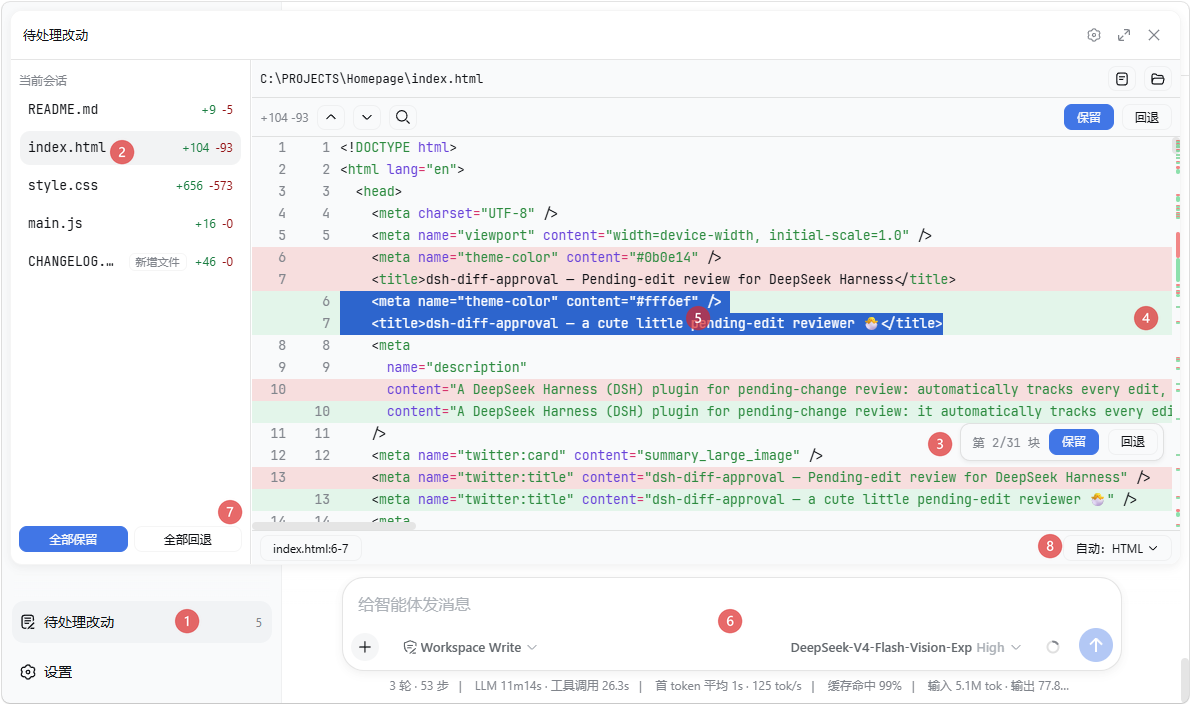
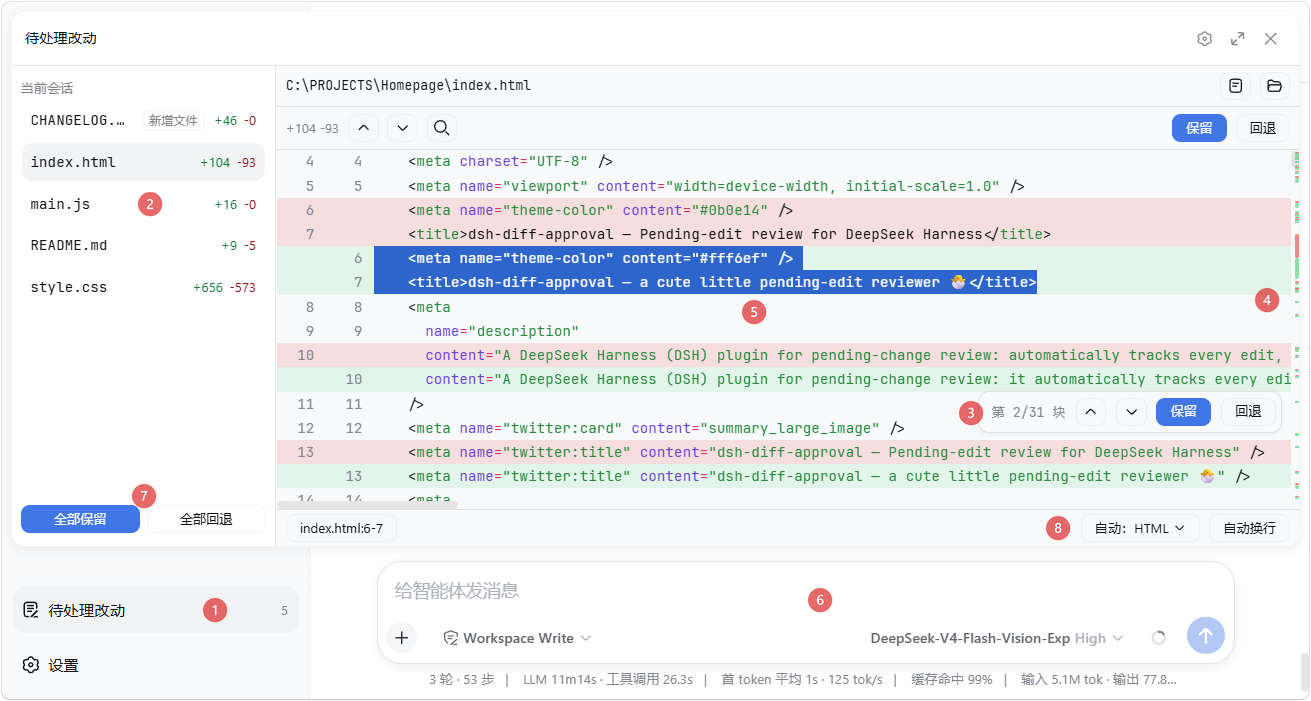
docs: refresh panel screenshots and align numbered markers with new features
Regenerate the annotated panel screenshots at 1311x701 (precise marker positions detected from the marked source), and update the README marker references: ⑦ now points at the bulk Keep all/Revert all footer, and add brief notes for per-language auto-wrap and the diff tab width setting.

diff --git a/README.md b/README.md
@@ -15,14 +15,15 @@ The numbered markers (① – ⑧) in the screenshot point to the matching detai
 
 - **Diff view**: syntax-highlighted whole-file diff ⑤ with +/− counts, an overview ruler ④ on the scrollbar showing where changes sit, and an in-file search (`Ctrl+F`). Rows are virtualized, so huge files stay smooth.
 - **Block navigation & decisions**: jump between change blocks with `Ctrl+↑/↓` (or the previous/next buttons) — the focused block flashes. Hover a block to **Keep** or **Revert** just that block from a small actions frame ③ that also shows its position (e.g. "2/5").
-- **Per-file and bulk decisions**: the files in the file list ② can be kept / reverted one at a time, or **Keep all** / **Revert all** from its footer.
+- **Per-file and bulk decisions**: the files in the file list ② can be kept / reverted one at a time, or **Keep all** / **Revert all** from its footer ⑦.
 - **Undo / Redo**: every keep, revert, and import is undoable with `Ctrl+Z` / `Ctrl+Y` (active while the panel is open; text inputs keep their own editing).
-- **Line references**: select text in the diff — the status bar shows its `file:start-end` reference ⑦; click it (or press `Ctrl+L`) to copy, and with the setting on it auto-pastes into the composer ⑥ and focuses it.
+- **Line references**: select text in the diff — the status bar shows its `file:start-end` reference; click it (or press `Ctrl+L`) to copy, and with the setting on it auto-pastes into the composer ⑥ and focuses it.
 - **Highlight language**: auto-detected from the file extension, or overridden from a dropdown ⑧.
+- **Auto-wrap**: a "Wrap lines" toggle beside the language selector ⑧ wraps long lines for that language (CJK breaks between characters, Latin words stay whole), remembered per language.
 - **External changes**: files already in the pending list are monitored — if one is later modified outside the reviewed edits (another tool, an editor), the panel adopts the new content and flags the divergence.
 - **Open / Reveal**: while reviewing a file's diff, open it in its default app or reveal it in the system file manager with one click.
 - **Import workspace changes**: when the list is empty, click the button to import the workspace's local changes from **Git / SVN / Perforce** — modified, deleted, and (opt-in) untracked files. The VCS root is found by walking up from the workspace, so a workspace inside a subdirectory works too.
-- **Settings**: a "Diff Approval" section in DeepSeek Harness settings with the preferences for auto-paste on copy and whether untracked files are included when importing.
+- **Settings**: a "Diff Approval" section in DeepSeek Harness settings with the preferences for auto-paste on copy, whether untracked files are included when importing, and the diff's tab width (2 / 4 / 8 spaces).
 - **Persistence**: pending state is stored per workspace at `<dshHome>/diff-approval/workspaces/<workspaceId>.json` and survives restarts — unhandled changes are still there when you come back, even in a fresh session.
 
 ## 📦 Install

diff --git a/README.zh.md b/README.zh.md
@@ -15,14 +15,15 @@
 
 - **差异视图**：语法高亮整文件差异 ⑤ 与 +/− 统计，滚动条上有概览标尺 ④ 标示改动位置，支持文件内搜索（`Ctrl+F`）。列表按视口虚拟化渲染，大文件也能保持流畅。
 - **差异块导航与操作**：用 `Ctrl+↑/↓`（或上一处 / 下一处按钮）在差异块间跳转，当前块会高亮闪烁。悬停某一块可从小操作框 ③ 单独**保留 / 回退**该块，并显示其位置（如「2/5」）。
-- **整文件与批量操作**：文件列表 ② 里的文件可逐个保留 / 回退，也可在列表底部**全部保留** / **全部回退**。
+- **整文件与批量操作**：文件列表 ② 里的文件可逐个保留 / 回退，也可在列表底部**全部保留** / **全部回退** ⑦。
 - **撤销 / 重做**：每次保留、回退、导入都可以用 `Ctrl+Z` / `Ctrl+Y` 撤销 / 重做（面板打开期间全局生效，输入框保留各自的编辑行为）。
-- **行引用**：选中 diff 文本后，底部状态栏显示其 `文件:起-止` 引用 ⑦——点击（或按 `Ctrl+L`）即可复制，开启设置后还会自动粘贴到消息输入框 ⑥ 并获得焦点。
+- **行引用**：选中 diff 文本后，底部状态栏显示其 `文件:起-止` 引用——点击（或按 `Ctrl+L`）即可复制，开启设置后还会自动粘贴到消息输入框 ⑥ 并获得焦点。
 - **高亮语言**：默认按扩展名自动检测，也可通过下拉列表 ⑧ 手动切换。
+- **自动换行**：语言下拉 ⑧ 旁有个「Wrap lines / 自动换行」开关，按语言记住；CJK 逐字断行、拉丁词保持完整。
 - **外部改动**：已纳入列表的文件若之后被外部修改（其它工具 / 编辑器），面板会跟进最新内容并标记分歧。
 - **打开 / 定位**：查看某个文件的差异时，可一键在默认应用中打开它，或在系统文件管理器中定位它。
 - **导入工作区改动**：列表为空时，点击按钮即可导入工作区里 **Git / SVN / Perforce** 的本地改动——已修改、已删除，以及（可选开启的）未跟踪文件。通过从工作区目录逐级向上查找 VCS 根目录，工作区在子目录里也能识别。
-- **设置**：在 DeepSeek Harness 设置里新增「改动审批」页，包含复制后自动粘贴、导入时是否包含未跟踪文件两个偏好。
+- **设置**：在 DeepSeek Harness 设置里新增「改动审批」页，包含复制后自动粘贴、导入时是否包含未跟踪文件，以及 diff 的 Tab 宽度（2 / 4 / 8 空格）等偏好。
 - **持久化**：待处理状态按 workspace 落盘至 `<dshHome>/diff-approval/workspaces/<workspaceId>.json`，跨重启保留——回来时未处理的改动仍在，即便换了新会话。
 
 ## 📦 安装
